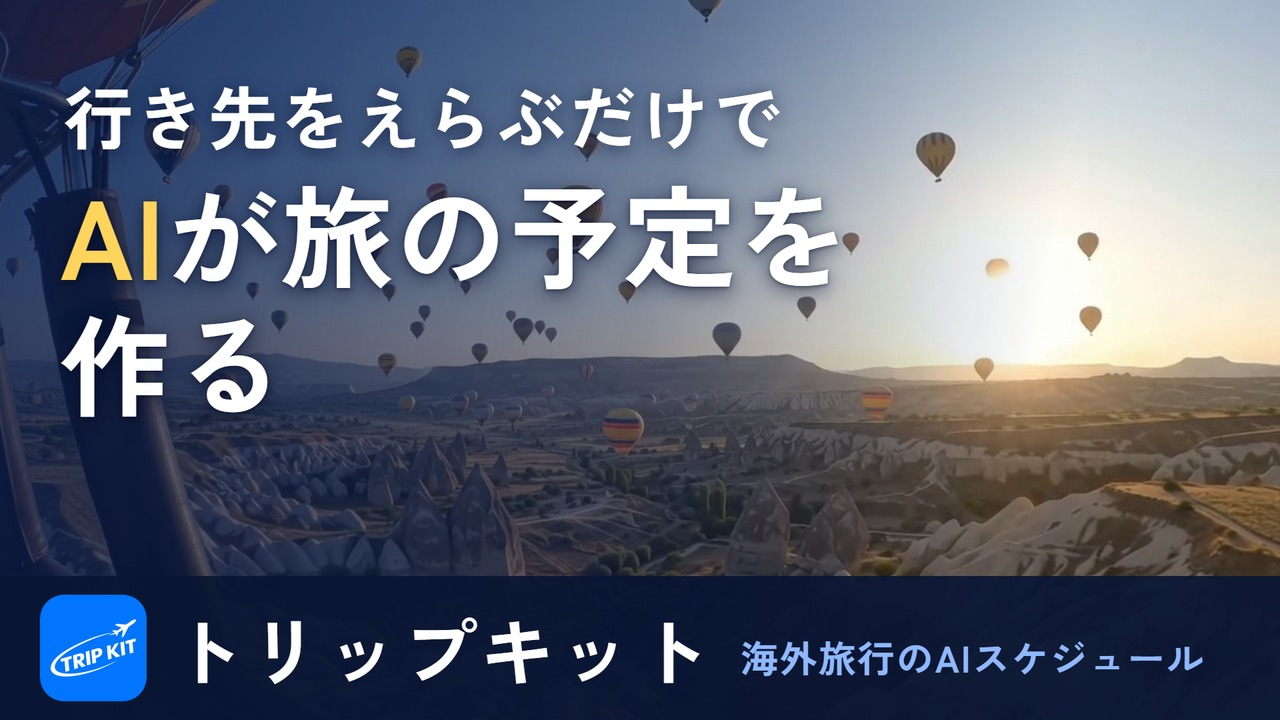
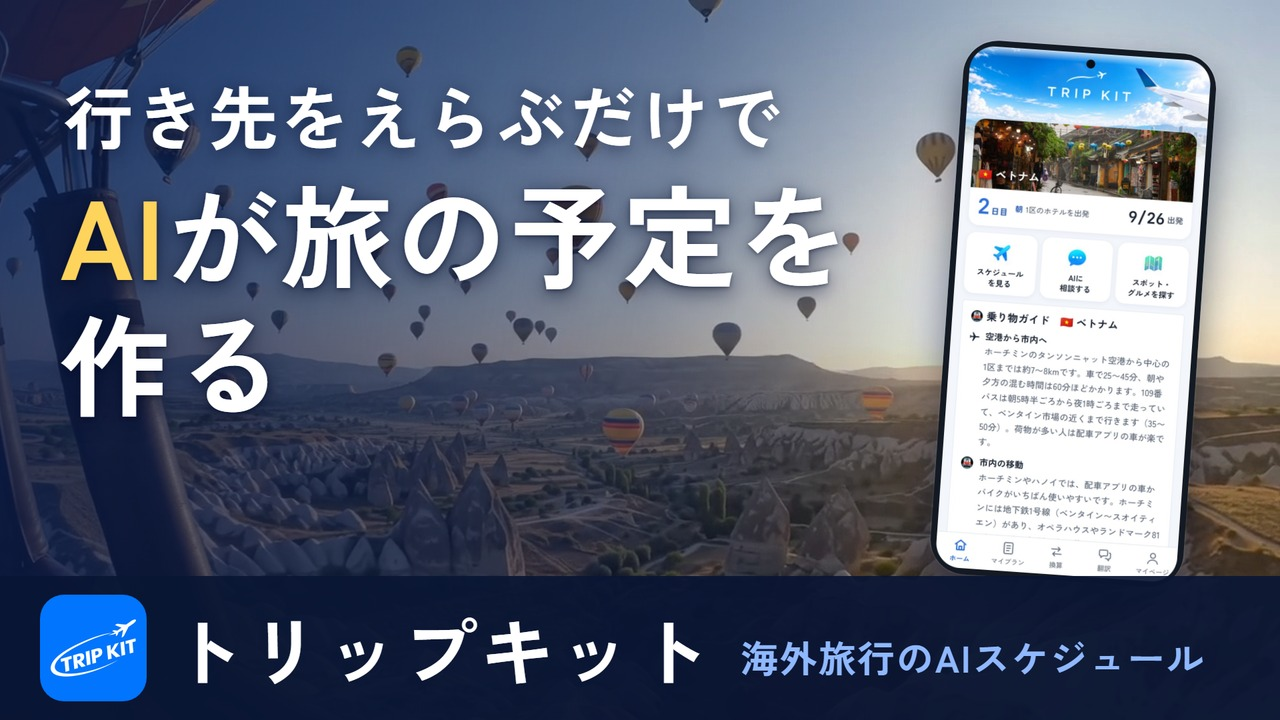
トリップキットの紹介動画を新しい版に付け替えた(最後の画面とサムネイルをホーム画面に)

Changed region(s): [[0.7188, 0.0306, 0.9688, 0.825]]

diff --git a/tripkit/index.html b/tripkit/index.html
@@ -104,7 +104,7 @@ if (window.matchMedia && !window.matchMedia('(prefers-reduced-motion: reduce)').
     <div class="wrap spec reveal">
       <h2 class="spec-label">動画</h2>
       <div class="spec-body">
-        <div class="yt" data-yt="YcIfNuOfi64" data-title="海外旅行アプリ トリップキット｜AIが旅のスケジュールを作る">
+        <div class="yt" data-yt="GfIDEUxg_WE" data-title="海外旅行アプリ トリップキット｜AIが旅のスケジュールを作る">
           <button type="button" class="yt-play" aria-label="動画「海外旅行アプリ トリップキット｜AIが旅のスケジュールを作る」を再生する（YouTube から読み込みます）">
             <img src="/assets/apps/tripkit/video-thumb.jpg" alt="" width="1280" height="720" loading="lazy">
             <span class="yt-icon" aria-hidden="true"></span>
@@ -112,7 +112,7 @@ if (window.matchMedia && !window.matchMedia('(prefers-reduced-motion: reduce)').
         </div>
         <p class="small dim" style="margin-top:12px">
           再生ボタンを押すと、YouTube から動画を読み込みます。押すまで YouTube には接続しません。
-          <a href="https://youtu.be/YcIfNuOfi64" rel="noopener">YouTube で見る</a>
+          <a href="https://youtu.be/GfIDEUxg_WE" rel="noopener">YouTube で見る</a>
         </p>
       </div>
     </div>
